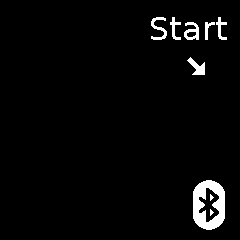
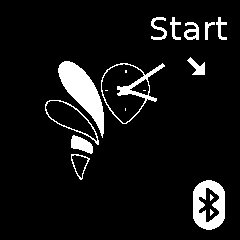
boards: p8: Full support for Colmi P8
All the components (bootloader, reloader, micropython) has P8 support added
some time back but without full integration at the wasp-os level. Let's
add it!

diff --git a/wasp/boards/p8/manifest.py b/wasp/boards/p8/manifest.py
@@ -1,0 +1,45 @@
+# SPDX-License-Identifier: LGPL-3.0-or-later
+# Copyright (C) 2020 Daniel Thompson
+
+freeze('.', 'watch.py', opt=3)
+freeze('../..',
+    (
+        'apps/clock.py',
+        'apps/flashlight.py',
+        'apps/heart.py',
+        'apps/launcher.py',
+        'apps/pager.py',
+        'apps/settings.py',
+        'apps/steps.py',
+        'apps/stopwatch.py',
+        'apps/testapp.py',
+        'boot.py',
+        'draw565.py',
+        'drivers/bma421.py',
+        'drivers/battery.py',
+        'drivers/cst816s.py',
+        'drivers/hrs3300.py',
+        'drivers/nrf_rtc.py',
+        'drivers/signal.py',
+        'drivers/st7789.py',
+        'drivers/vibrator.py',
+        'fonts/__init__.py',
+        'fonts/clock.py',
+        'fonts/sans24.py',
+        'fonts/sans28.py',
+        'fonts/sans36.py',
+        'gadgetbridge.py',
+        'icons.py',
+        'ppg.py',
+        'shell.py',
+        'wasp.py',
+        'widgets.py',
+    ),
+    opt=3
+)
+freeze('../../drivers/flash',
+    (
+        'bdevice.py',
+        'flash/flash_spi.py'
+    ), opt=3
+)
